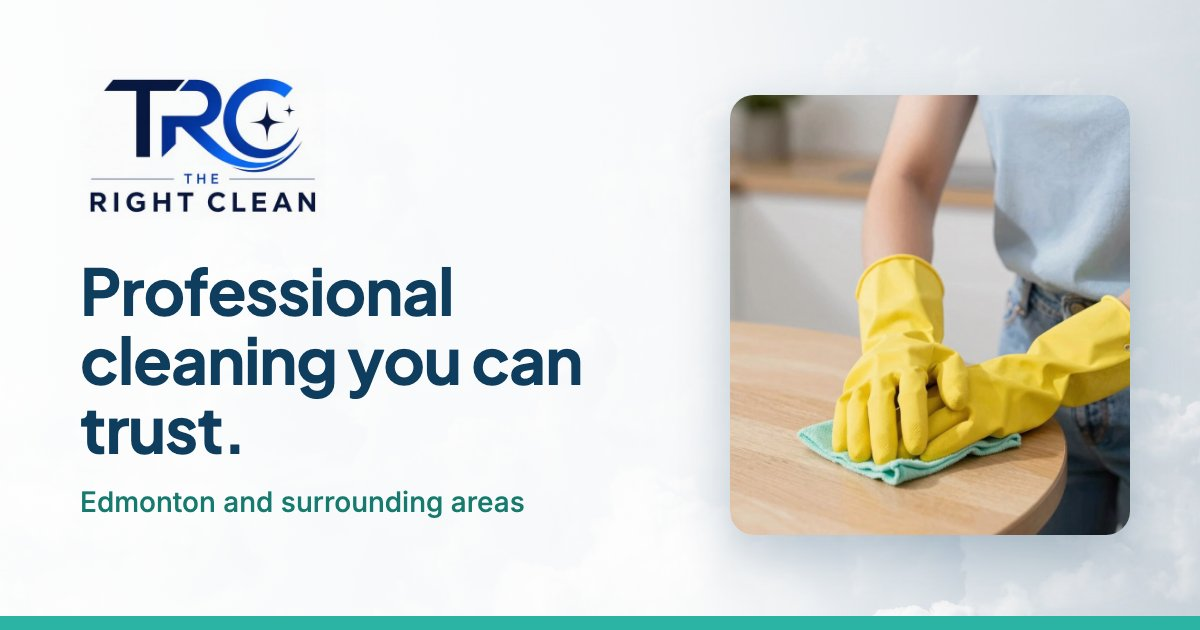
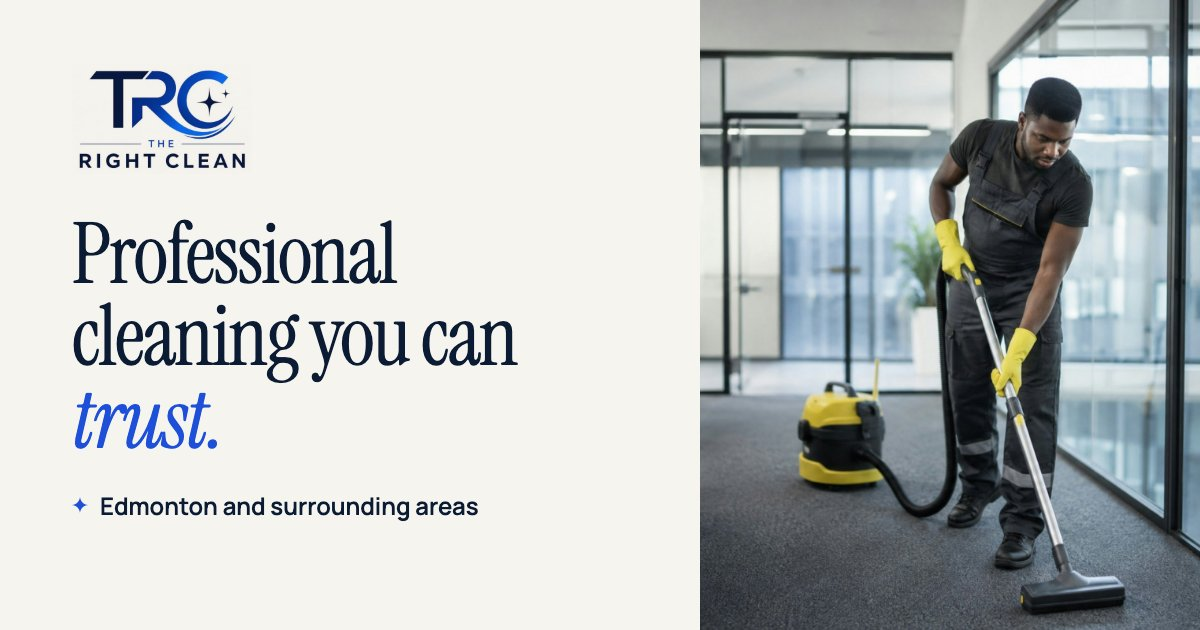
Refresh share image and credits; remove images the new design no longer uses

diff --git a/src/assets/images/CREDITS.md b/src/assets/images/CREDITS.md
@@ -1,18 +1,33 @@
 # Image credits
 
-All images are **temporary**, pulled from the old Hostinger site (therightcleancanada.com) in Nov 2026. Replace with real photos before launch.
+Everything here is **temporary for the demo**. Swap in the family's own photos and logo before launch.
 
-| File | What it shows | Source | Replace? |
-|---|---|---|---|
-| `hero-clouds.jpg/.webp` | Soft white clouds (used as a decorative background) | Unsplash, Carlos Torres (`carlos-torres-mhnjebeltgw-unsplash`) via old site | Optional. Free Unsplash licence, fine to keep. |
-| `cleaner-wiping-table.jpg/.webp` | Gloved hands wiping a wooden table | **AI-generated** on old site | Yes, with a real photo of the team at work. Currently used for every service. |
-| `logo.jpg/.webp` | "TRC / The Right Clean" logo, square | **AI-generated** (ChatGPT, Apr 2026) on old site | Yes, with the original logo file (ideally SVG or transparent PNG). |
-| `logo-wide.jpg` | Same logo cropped tight, for the header/footer | Cropped from `logo.jpg` | Regenerate from the real logo file. |
-| `portrait-placeholder.jpg/.webp` | Woman in a white blazer ("confident-corporate-portrait") | Old About page. **Confirmed to be Gbemisola** (Nov 2026) | Optional, if a newer photo is sent. |
-| `og-image.jpg` | 1200×630 share image (logo, headline, cleaning photo on clouds) | Made by us from the images above | Regenerate when the real logo/photos arrive. |
+## Stock photos (Unsplash, free licence: commercial use allowed, no attribution required)
 
-Favicons in `src/assets/icons/` are cropped from the "TRC" part of `logo.jpg`. Fonts in `src/assets/fonts/` are Inter and Plus Jakarta Sans (Google Fonts, SIL Open Font License).
+They show other people, not The Right Clean's team. Replace them with real photos of the team and their work when available.
 
-Not downloaded on purpose: reviewer avatars (`aleksandrina-andreeva`, `hannah-popowski`, `eliabe-costa`), which are stock photos attached to placeholder reviews.
+| File | Shows | Unsplash photo |
+|---|---|---|
+| `hero-office-vacuum` (+ `-900` mobile) | Cleaner vacuuming a glass-walled office | unsplash.com/photos/CVcIMnH_7so |
+| `commercial-desk-cleaning` | Gloved hands cleaning a desk | unsplash.com/photos/-9gPKrsbGmc (Towfiqu Barbhuiya) |
+| `move-out-living-room` | Mopping a bright living room | unsplash.com/photos/2NcTLdFHpH8 (Vitaly Gariev) |
+| `post-construction-new-building` | Cleaner in a new, bright building | unsplash.com/photos/MwW-zrkYSIU (Verne Ho) |
+| `floor-care-scrub` | Close-up of a floor being scrubbed | unsplash.com/photos/-dc38HdQR1M |
+| `carpet-upholstery-vacuum` | Upholstery being vacuumed | unsplash.com/photos/5TXz228u4eo (Giorgio Trovato) |
+| `specialty-clinic-hallway` | Mopping a clinical hallway | unsplash.com/photos/0FTI9ceTUOc (Toon Lambrechts) |
+| `dental-room-clean` | Clean dental treatment room | unsplash.com/photos/Fdku_oMrDvk (Kari Bjorn Photography) |
+| `office-corridor` | Clean office corridor | unsplash.com/photos/yWwob8kwOCk (Nastuh Abootalebi) |
 
-Sizes: hero max 1920px wide, others max 1200px. WebP made by the old site's CDN; JPG fallbacks converted with `sips`.
+## From the old site
+
+| File | Shows | Notes |
+|---|---|---|
+| `portrait-placeholder` | Gbemisola Famade | Confirmed to be Gbemisola (Nov 2026). |
+| `logo.jpg` | "TRC / The Right Clean" logo | **AI-generated** on the old site. Replace with the original logo file (SVG or transparent PNG). |
+| `logo-wide.jpg` | Same logo, cropped tight for header/footer | Regenerate from the real logo. |
+
+## Made for this site
+
+- `og-image.jpg`: 1200×630 share image (logo, headline, hero photo). Regenerate when the real logo/photos arrive.
+- `src/assets/icons/`: favicons cropped from the "TRC" part of `logo.jpg`.
+- `src/assets/fonts/`: Instrument Serif and Manrope (Google Fonts, SIL Open Font License).
